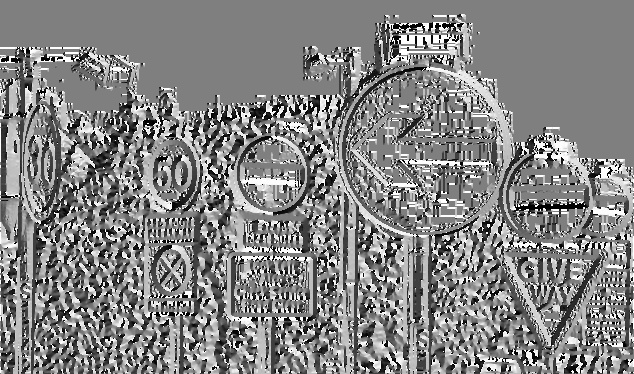
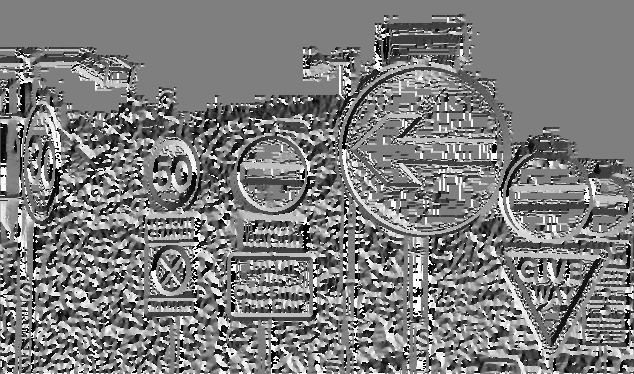
Image outputted now displays vj and circle detection

diff --git a/task_3.py b/task_3.py
@@ -76,6 +76,21 @@ def display_hough_space(hough_space):
     summed_hough_space_display = normalise(summed_hough_space)
     return summed_hough_space_display
 
+def viola_jones_detect(image_grey):
+    cascade = cv2.CascadeClassifier("NoEntryCascade/cascade.xml")
+    objects_detected = cascade.detectMultiScale(
+        image_grey,
+        scaleFactor = 1.1,
+        minNeighbors = 1,
+        flags = cv2.CASCADE_SCALE_IMAGE,
+        minSize = (10, 10),
+        maxSize = (300, 300)
+    )
+    return objects_detected
+    print(len(faces))
+    for (x, y, w, h) in faces:
+        cv2.rectangle(frame, (x, y), (x + w, y + h), (0, 255, 0), 2)
+
 def main():
     image = cv2.imread(sys.argv[1], cv2.IMREAD_COLOR)
     image_grey = cv2.cvtColor(src = image, code = cv2.COLOR_BGR2GRAY)
@@ -83,7 +98,7 @@ def main():
 
     gradient_magnitude, gradient_direction = sobel(image_grey)
 
-    hough_space_circles = hough_circles(gradient_magnitude, gradient_direction,)
+    hough_space_circles = hough_circles(gradient_magnitude, gradient_direction)
     hough_space_circles_display = display_hough_space(hough_space_circles)
     cv2.imwrite("task_3/7_summed_hough_space.jpg", hough_space_circles_display)
 
@@ -91,6 +106,10 @@ def main():
     hough_space_circles_threshold[hough_space_circles_threshold < T_H] = 0
     hough_space_circles_threshold[hough_space_circles_threshold >= T_H] = 255
     cv2.imwrite("task_3/8_summed_hough_space_threshold.jpg", hough_space_circles_threshold)
+
+    objects_detected = viola_jones_detect(image_grey)
+    for (x, y, w, h) in objects_detected:
+        cv2.rectangle(image, (x, y), (x + w, y + h), (0, 255, 0), 2) 
 
     image_height = gradient_magnitude.shape[0]
     image_width = gradient_magnitude.shape[1]
@@ -104,6 +123,8 @@ def main():
                     print(hough_space_circles[x][y][r])
                     cv2.circle(image, (y, x), r + MINIMUM_RADIUS, (0, 0, 255), 2)
 
+
+    cv2.imwrite("task_3/9_output_image.jpg", image)
     cv2.imshow("Display window", image)
     cv2.waitKey(0)
     cv2.destroyAllWindows()
